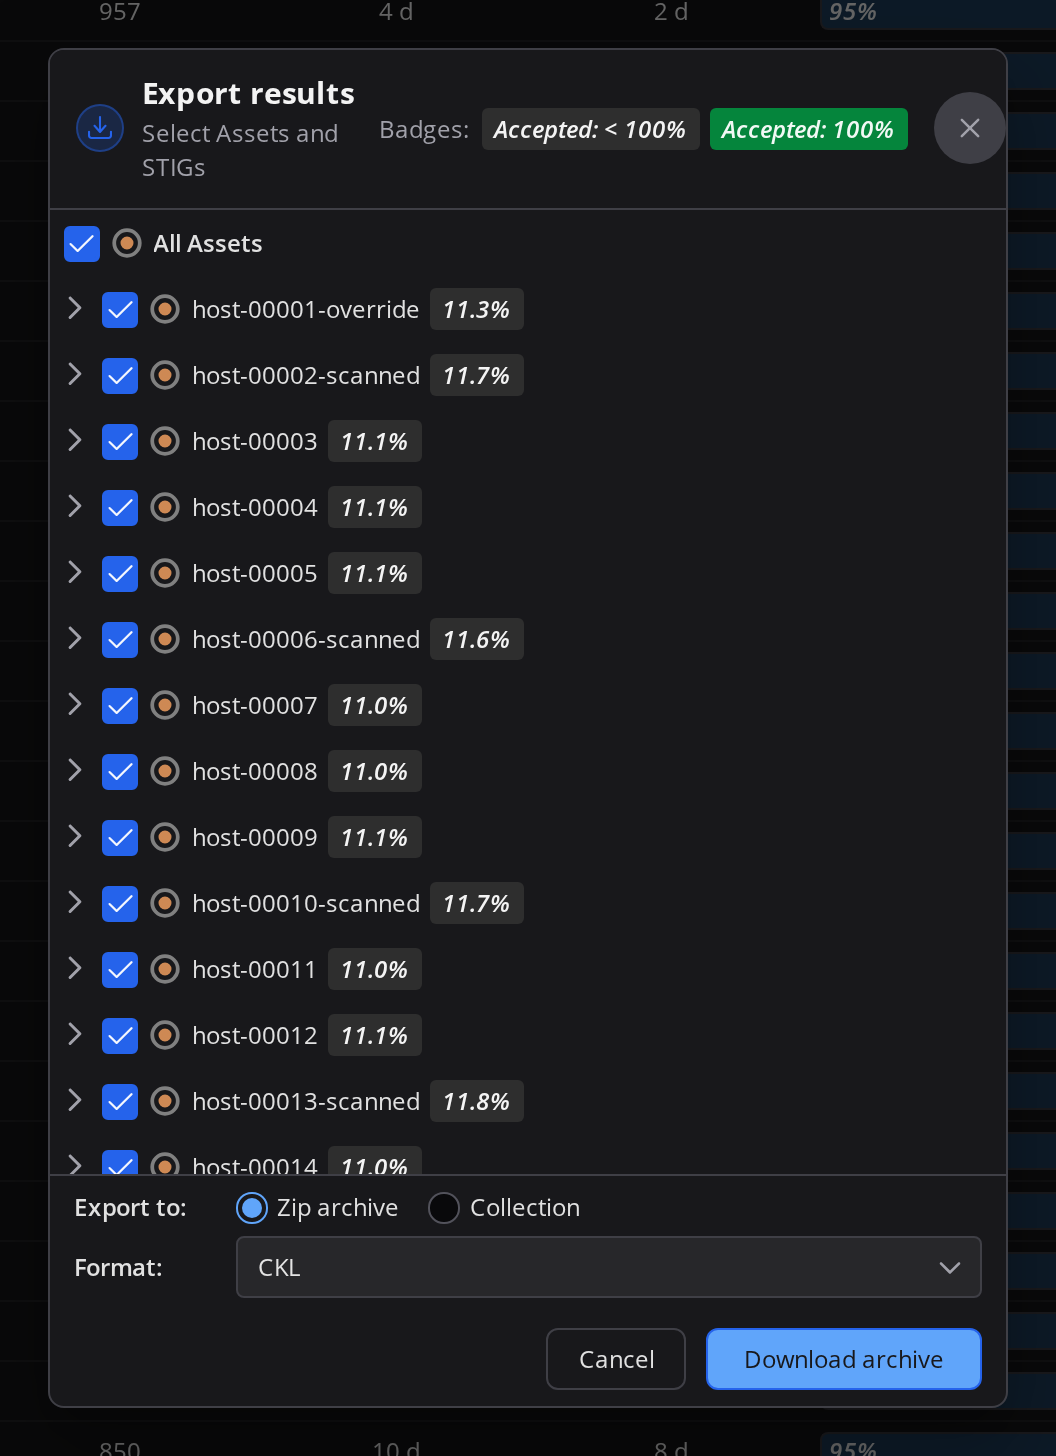
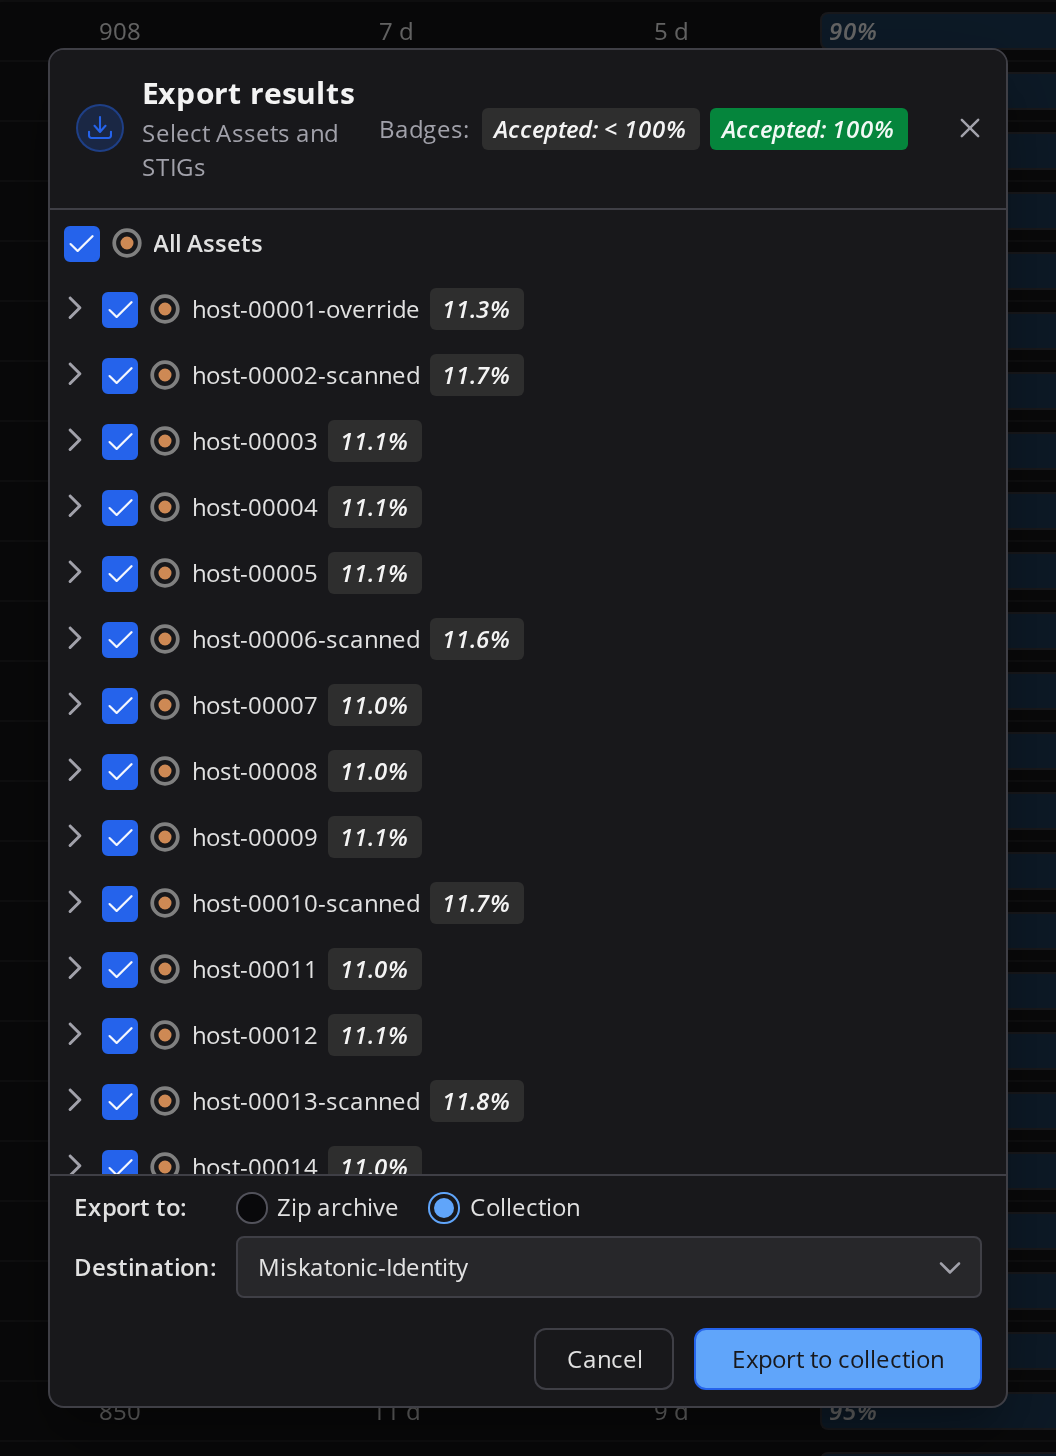
filled a few gaps in screenshots

diff --git a/docs/user-guide/user-guide.rst b/docs/user-guide/user-guide.rst
@@ -1418,6 +1418,14 @@ See the :ref:`import-options` section of this document for information about the
 -------------------------------
 
 
+.. thumbnail:: /assets/images/new/collection-builder-errors-and-warnings.png
+      :width: 50% 
+      :show_caption: True
+      :title: Collection Builder Errors and Warnings
+
+
+|
+
 If there is an issue with the files you selected, they will appear here. One error you may encounter is that the STIG in the selected file is not installed in STIG Manager. If this is the case, contact a STIG Manager Administrator to have them install it.
 
 If you provide multiple files for the same Asset and STIG, only the latest will be imported. 
@@ -1425,6 +1433,14 @@ If you provide multiple files for the same Asset and STIG, only the latest will 
 This screen will be skipped if there are no issues with the files you have selected.
 
 -------------------------------
+
+.. thumbnail:: /assets/images/new/collection-builder-options.png
+      :width: 50% 
+      :show_caption: True
+      :title: Collection Builder Options and Summary
+
+
+|
 
 You will be presented with a summary view of the files you have submitted.
 This view shows the Assets, STIGs, Review totals, filenames and date of the data contained in the submitted files. 
@@ -1435,6 +1451,14 @@ If the summary is appropriate, click the "Add to Collection..." button.
 
 -------------------------------
 
+
+.. thumbnail:: /assets/images/new/collection-builder-import.png
+      :width: 50% 
+      :show_caption: True
+      :title: Collection Builder Import Log
+
+
+|
 
 The user is presented with the log of the import. Select an item in the top grid for information about any "rejected" Reviews that were unable to be imported into STIG Manager. This may happen for Rules that are not currently assigned to this Asset, or for versions of STIGs that have not been loaded into STIG Manager.
 
@@ -1484,6 +1508,13 @@ Export Results as CKL or XCCDF Archive
 
 Use the Format dropdown to select whether CKL, CKLB, or XCCDF files will be generated for every Asset selected, then click "Download archive". The package of files will be presented as a .zip file that will also contain a ``_manifest.json`` file describing its contents and any errors encountered while producing it.  Check the :term:`ckl` glossary entry for exact mappings of fields from STIG Manger to .ckl file.
 
+.. thumbnail:: /assets/images/new/collection-manage-results-export-asset-archive.png
+      :width: 50% 
+      :show_caption: True
+      :title: Checklist Archive Export
+
+
+|
 
 --------------------------
 
@@ -1627,6 +1658,13 @@ Export Results as CKL or XCCDF Archive
 
 Use the Format dropdown to select whether CKL, CKLB, or XCCDF files will be generated for every Asset selected, then click "Download archive". The package of files will be presented as a .zip file that will also contain a ``_manifest.json`` file describing its contents and any errors encountered while producing it.  Check the :term:`ckl` glossary entry for exact mappings of fields from STIG Manger to .ckl file.
 
+.. thumbnail:: /assets/images/new/collection-manage-results-export-asset-archive.png
+      :width: 50% 
+      :show_caption: True
+      :title: Checklist Archive Export
+
+
+|
 
 .. _labels-tab:
 
